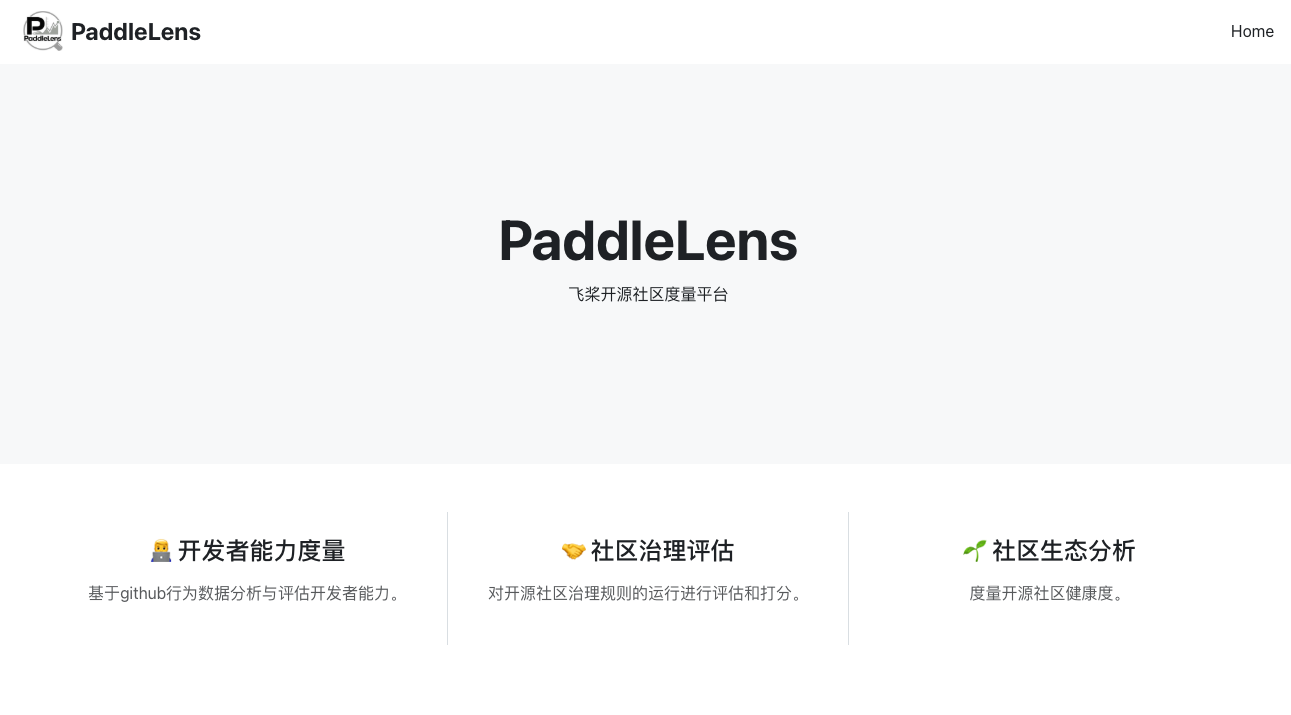
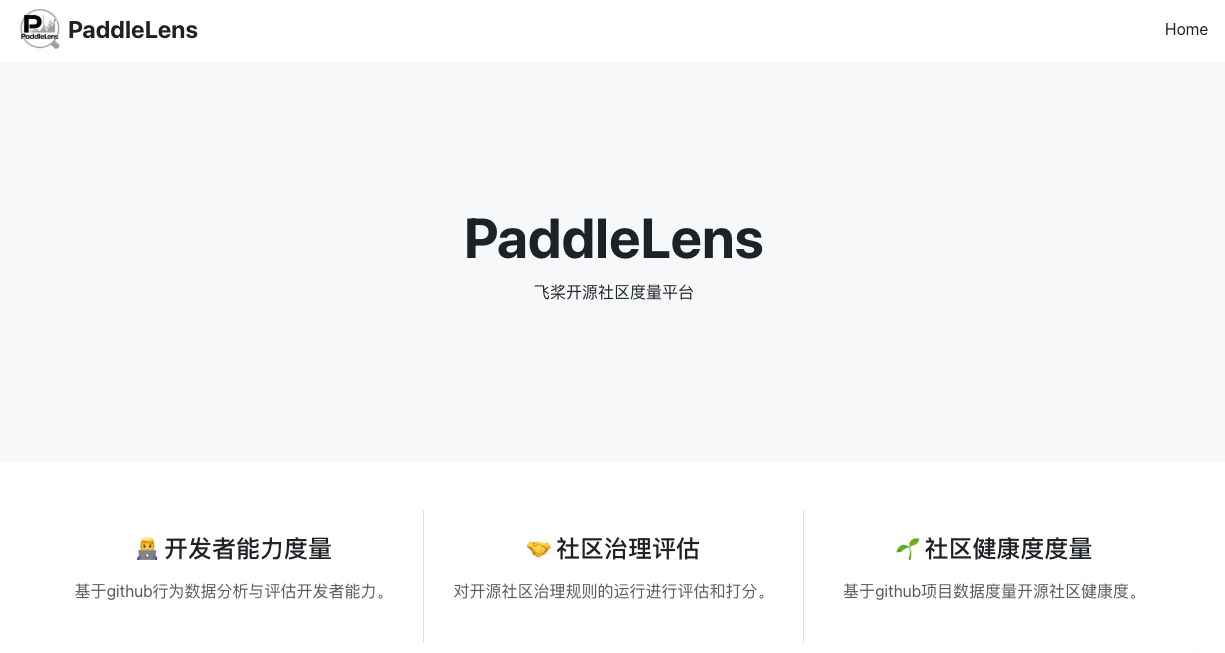
update readme and ui

diff --git a/frontend/src/components/Home.vue b/frontend/src/components/Home.vue
@@ -23,8 +23,8 @@
 
         <router-link to="/community" class="text-decoration-none col-md-4">
           <div class="p-4 h-100 text-dark text-center hover-card">
-            <h4 class="mb-3">🌱 社区生态分析</h4>
-            <p class="text-muted">度量开源社区健康度。</p>
+            <h4 class="mb-3">🌱 社区健康度度量</h4>
+            <p class="text-muted">基于github项目数据度量开源社区健康度。</p>
           </div>
         </router-link>
       </div>
